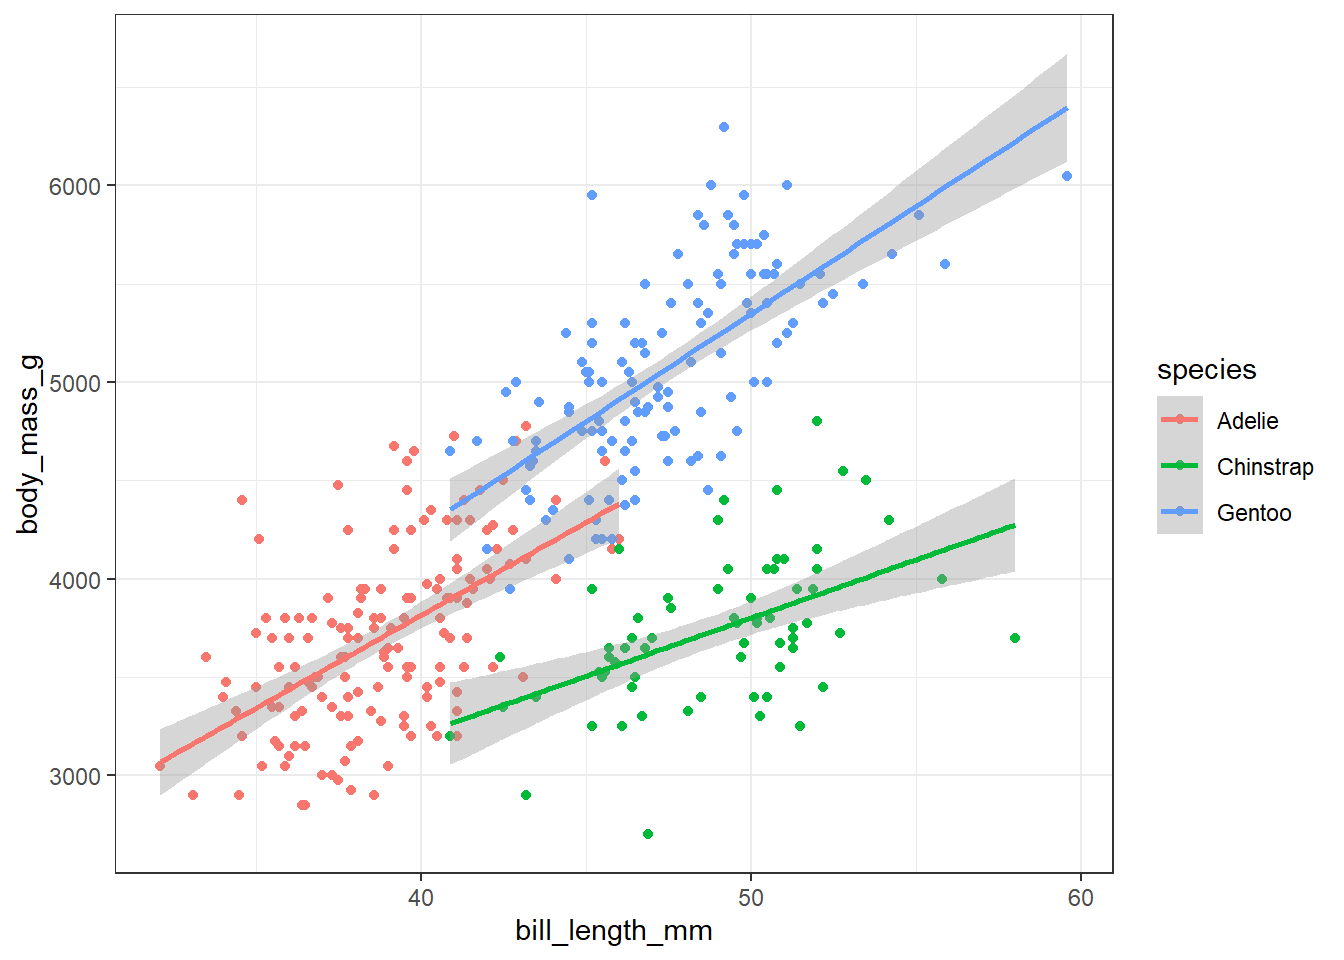
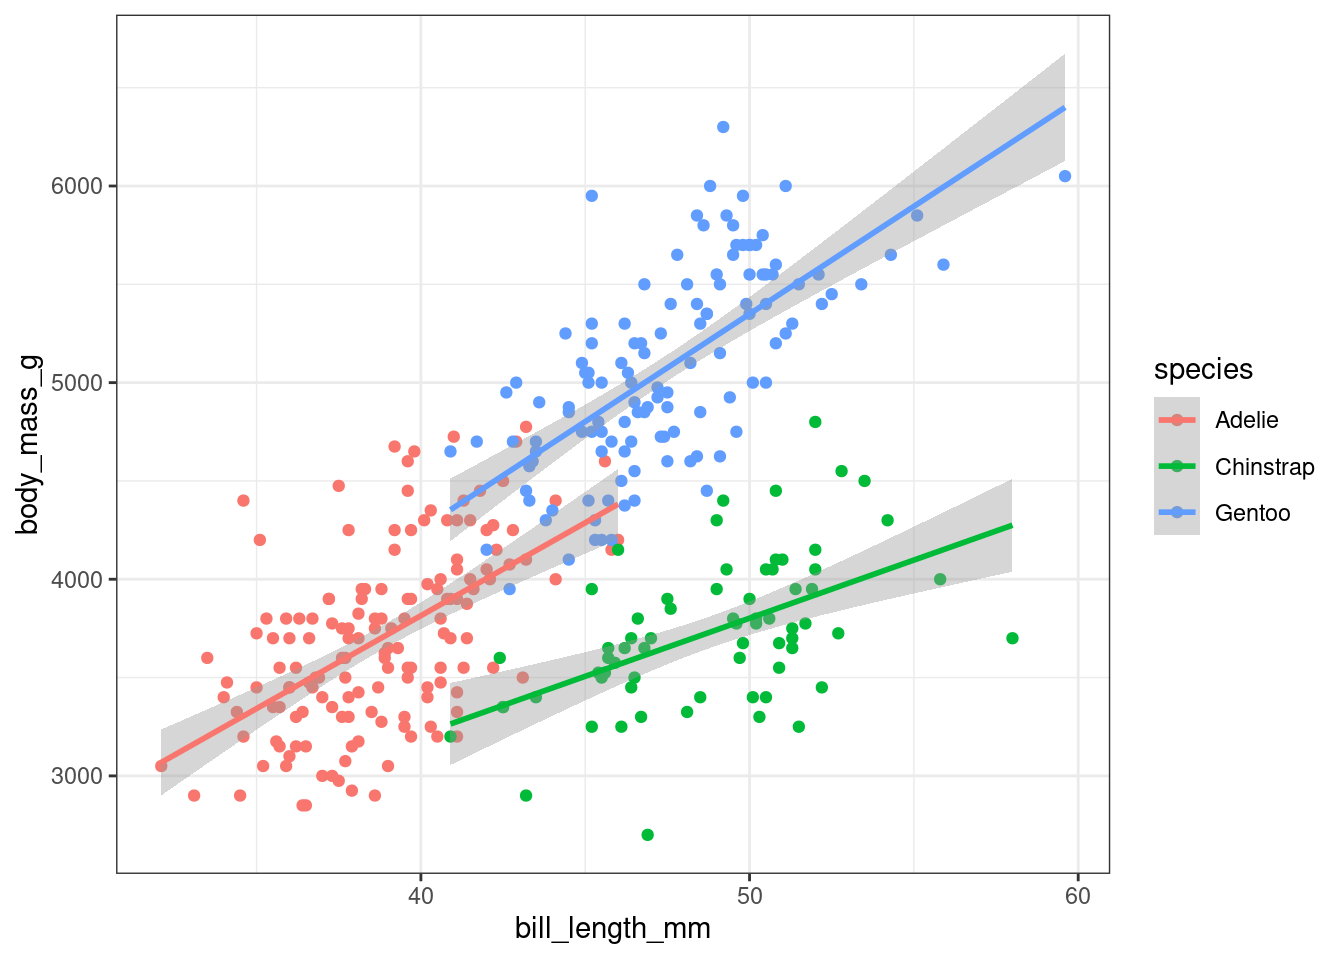
Built site for gh-pages

diff --git a/index.html b/index.html
@@ -6,8 +6,9 @@
 
 <meta name="viewport" content="width=device-width, initial-scale=1.0, user-scalable=yes">
 
+<meta name="author" content="Philip Orlando">
 
-<title>Model</title>
+<title>Penguins EDA</title>
 <style>
 code{white-space: pre-wrap;}
 span.smallcaps{font-variant: small-caps;}
@@ -86,19 +87,16 @@ code span.wa { color: #60a0b0; font-weight: bold; font-style: italic; } /* Warni
 </style>
 
 
-<script src="model_files/libs/clipboard/clipboard.min.js"></script>
-<script src="model_files/libs/quarto-html/quarto.js"></script>
-<script src="model_files/libs/quarto-html/popper.min.js"></script>
-<script src="model_files/libs/quarto-html/tippy.umd.min.js"></script>
-<script src="model_files/libs/quarto-html/anchor.min.js"></script>
-<link href="model_files/libs/quarto-html/tippy.css" rel="stylesheet">
-<link href="model_files/libs/quarto-html/quarto-syntax-highlighting.css" rel="stylesheet" id="quarto-text-highlighting-styles">
-<script src="model_files/libs/bootstrap/bootstrap.min.js"></script>
-<link href="model_files/libs/bootstrap/bootstrap-icons.css" rel="stylesheet">
-<link href="model_files/libs/bootstrap/bootstrap.min.css" rel="stylesheet" id="quarto-bootstrap" data-mode="light">
-<script src="https://cdnjs.cloudflare.com/ajax/libs/require.js/2.3.6/require.min.js" integrity="sha512-c3Nl8+7g4LMSTdrm621y7kf9v3SDPnhxLNhcjFJbKECVnmZHTdo+IRO05sNLTH/D3vA6u1X32ehoLC7WFVdheg==" crossorigin="anonymous"></script>
-<script src="https://cdnjs.cloudflare.com/ajax/libs/jquery/3.5.1/jquery.min.js" integrity="sha512-bLT0Qm9VnAYZDflyKcBaQ2gg0hSYNQrJ8RilYldYQ1FxQYoCLtUjuuRuZo+fjqhx/qtq/1itJ0C2ejDxltZVFg==" crossorigin="anonymous"></script>
-<script type="application/javascript">define('jquery', [],function() {return window.jQuery;})</script>
+<script src="eda_files/libs/clipboard/clipboard.min.js"></script>
+<script src="eda_files/libs/quarto-html/quarto.js"></script>
+<script src="eda_files/libs/quarto-html/popper.min.js"></script>
+<script src="eda_files/libs/quarto-html/tippy.umd.min.js"></script>
+<script src="eda_files/libs/quarto-html/anchor.min.js"></script>
+<link href="eda_files/libs/quarto-html/tippy.css" rel="stylesheet">
+<link href="eda_files/libs/quarto-html/quarto-syntax-highlighting.css" rel="stylesheet" id="quarto-text-highlighting-styles">
+<script src="eda_files/libs/bootstrap/bootstrap.min.js"></script>
+<link href="eda_files/libs/bootstrap/bootstrap-icons.css" rel="stylesheet">
+<link href="eda_files/libs/bootstrap/bootstrap.min.css" rel="stylesheet" id="quarto-bootstrap" data-mode="light">
 
 
 </head>
@@ -111,13 +109,19 @@ code span.wa { color: #60a0b0; font-weight: bold; font-style: italic; } /* Warni
 
 <header id="title-block-header" class="quarto-title-block default">
 <div class="quarto-title">
-<h1 class="title">Model</h1>
+<h1 class="title">Penguins EDA</h1>
 </div>
 
 
 
 <div class="quarto-title-meta">
 
+    <div>
+    <div class="quarto-title-meta-heading">Author</div>
+    <div class="quarto-title-meta-contents">
+             <p>Philip Orlando </p>
+          </div>
+  </div>
     
   
     
@@ -126,110 +130,173 @@ code span.wa { color: #60a0b0; font-weight: bold; font-style: italic; } /* Warni
 
 </header>
 
-<div class="cell" data-execution_count="1">
+<section id="penguin-size-and-mass-by-sex-and-species" class="level2">
+<h2 class="anchored" data-anchor-id="penguin-size-and-mass-by-sex-and-species">Penguin Size and Mass by Sex and Species</h2>
+<div class="cell">
 <details>
 <summary>Code</summary>
-<div class="sourceCode cell-code" id="cb1"><pre class="sourceCode python code-with-copy"><code class="sourceCode python"><span id="cb1-1"><a href="#cb1-1" aria-hidden="true" tabindex="-1"></a><span class="im">from</span> palmerpenguins <span class="im">import</span> penguins</span>
-<span id="cb1-2"><a href="#cb1-2" aria-hidden="true" tabindex="-1"></a><span class="im">from</span> pandas <span class="im">import</span> get_dummies</span>
-<span id="cb1-3"><a href="#cb1-3" aria-hidden="true" tabindex="-1"></a><span class="im">import</span> numpy <span class="im">as</span> np</span>
-<span id="cb1-4"><a href="#cb1-4" aria-hidden="true" tabindex="-1"></a><span class="im">from</span> sklearn.linear_model <span class="im">import</span> LinearRegression</span>
-<span id="cb1-5"><a href="#cb1-5" aria-hidden="true" tabindex="-1"></a><span class="im">from</span> sklearn <span class="im">import</span> preprocessing</span></code><button title="Copy to Clipboard" class="code-copy-button"><i class="bi"></i></button></pre></div>
+<div class="sourceCode cell-code" id="cb1"><pre class="sourceCode r code-with-copy"><code class="sourceCode r"><span id="cb1-1"><a href="#cb1-1" aria-hidden="true" tabindex="-1"></a><span class="fu">library</span>(palmerpenguins)</span>
+<span id="cb1-2"><a href="#cb1-2" aria-hidden="true" tabindex="-1"></a><span class="fu">library</span>(dplyr)</span></code><button title="Copy to Clipboard" class="code-copy-button"><i class="bi"></i></button></pre></div>
+</details>
+<div class="cell-output cell-output-stderr">
+<pre><code>
+Attaching package: 'dplyr'</code></pre>
+</div>
+<div class="cell-output cell-output-stderr">
+<pre><code>The following objects are masked from 'package:stats':
+
+    filter, lag</code></pre>
+</div>
+<div class="cell-output cell-output-stderr">
+<pre><code>The following objects are masked from 'package:base':
+
+    intersect, setdiff, setequal, union</code></pre>
+</div>
+<details>
+<summary>Code</summary>
+<div class="sourceCode cell-code" id="cb5"><pre class="sourceCode r code-with-copy"><code class="sourceCode r"><span id="cb5-1"><a href="#cb5-1" aria-hidden="true" tabindex="-1"></a><span class="fu">library</span>(ggplot2)</span>
+<span id="cb5-2"><a href="#cb5-2" aria-hidden="true" tabindex="-1"></a></span>
+<span id="cb5-3"><a href="#cb5-3" aria-hidden="true" tabindex="-1"></a>df <span class="ot">&lt;-</span> palmerpenguins<span class="sc">::</span>penguins</span></code><button title="Copy to Clipboard" class="code-copy-button"><i class="bi"></i></button></pre></div>
 </details>
 </div>
-<section id="get-data" class="level2">
-<h2 class="anchored" data-anchor-id="get-data">Get Data</h2>
-<div class="cell" data-execution_count="2">
+<div class="cell">
 <details>
 <summary>Code</summary>
-<div class="sourceCode cell-code" id="cb2"><pre class="sourceCode python code-with-copy"><code class="sourceCode python"><span id="cb2-1"><a href="#cb2-1" aria-hidden="true" tabindex="-1"></a>df <span class="op">=</span> penguins.load_penguins().dropna()</span>
-<span id="cb2-2"><a href="#cb2-2" aria-hidden="true" tabindex="-1"></a></span>
-<span id="cb2-3"><a href="#cb2-3" aria-hidden="true" tabindex="-1"></a>df.head(<span class="dv">3</span>)</span></code><button title="Copy to Clipboard" class="code-copy-button"><i class="bi"></i></button></pre></div>
+<div class="sourceCode cell-code" id="cb6"><pre class="sourceCode r code-with-copy"><code class="sourceCode r"><span id="cb6-1"><a href="#cb6-1" aria-hidden="true" tabindex="-1"></a>df <span class="sc">%&gt;%</span> </span>
+<span id="cb6-2"><a href="#cb6-2" aria-hidden="true" tabindex="-1"></a>  <span class="fu">group_by</span>(species, sex) <span class="sc">%&gt;%</span></span>
+<span id="cb6-3"><a href="#cb6-3" aria-hidden="true" tabindex="-1"></a>  <span class="fu">summarise</span>(</span>
+<span id="cb6-4"><a href="#cb6-4" aria-hidden="true" tabindex="-1"></a>    <span class="fu">across</span>(</span>
+<span id="cb6-5"><a href="#cb6-5" aria-hidden="true" tabindex="-1"></a>      <span class="fu">where</span>(is.numeric),</span>
+<span id="cb6-6"><a href="#cb6-6" aria-hidden="true" tabindex="-1"></a>      \(x) <span class="fu">mean</span>(x, <span class="at">na.rm =</span> <span class="cn">TRUE</span>)</span>
+<span id="cb6-7"><a href="#cb6-7" aria-hidden="true" tabindex="-1"></a>    )</span>
+<span id="cb6-8"><a href="#cb6-8" aria-hidden="true" tabindex="-1"></a>  ) <span class="sc">%&gt;%</span></span>
+<span id="cb6-9"><a href="#cb6-9" aria-hidden="true" tabindex="-1"></a>  knitr<span class="sc">::</span><span class="fu">kable</span>()</span></code><button title="Copy to Clipboard" class="code-copy-button"><i class="bi"></i></button></pre></div>
 </details>
-<div class="cell-output cell-output-display" data-execution_count="6">
-
-<div>
-
-<table class="dataframe table table-sm table-striped">
-  <thead>
-    <tr>
-      <th></th>
-      <th>species</th>
-      <th>island</th>
-      <th>bill_length_mm</th>
-      <th>bill_depth_mm</th>
-      <th>flipper_length_mm</th>
-      <th>body_mass_g</th>
-      <th>sex</th>
-      <th>year</th>
-    </tr>
-  </thead>
-  <tbody>
-    <tr>
-      <th>0</th>
-      <td>Adelie</td>
-      <td>Torgersen</td>
-      <td>39.1</td>
-      <td>18.7</td>
-      <td>181.0</td>
-      <td>3750.0</td>
-      <td>male</td>
-      <td>2007</td>
-    </tr>
-    <tr>
-      <th>1</th>
-      <td>Adelie</td>
-      <td>Torgersen</td>
-      <td>39.5</td>
-      <td>17.4</td>
-      <td>186.0</td>
-      <td>3800.0</td>
-      <td>female</td>
-      <td>2007</td>
-    </tr>
-    <tr>
-      <th>2</th>
-      <td>Adelie</td>
-      <td>Torgersen</td>
-      <td>40.3</td>
-      <td>18.0</td>
-      <td>195.0</td>
-      <td>3250.0</td>
-      <td>female</td>
-      <td>2007</td>
-    </tr>
-  </tbody>
+<div class="cell-output cell-output-stderr">
+<pre><code>`summarise()` has grouped output by 'species'. You can override using the
+`.groups` argument.</code></pre>
+</div>
+<div class="cell-output-display">
+<table class="table table-sm table-striped">
+<colgroup>
+<col style="width: 11%">
+<col style="width: 8%">
+<col style="width: 17%">
+<col style="width: 16%">
+<col style="width: 21%">
+<col style="width: 14%">
+<col style="width: 10%">
+</colgroup>
+<thead>
+<tr class="header">
+<th style="text-align: left;">species</th>
+<th style="text-align: left;">sex</th>
+<th style="text-align: right;">bill_length_mm</th>
+<th style="text-align: right;">bill_depth_mm</th>
+<th style="text-align: right;">flipper_length_mm</th>
+<th style="text-align: right;">body_mass_g</th>
+<th style="text-align: right;">year</th>
+</tr>
+</thead>
+<tbody>
+<tr class="odd">
+<td style="text-align: left;">Adelie</td>
+<td style="text-align: left;">female</td>
+<td style="text-align: right;">37.25753</td>
+<td style="text-align: right;">17.62192</td>
+<td style="text-align: right;">187.7945</td>
+<td style="text-align: right;">3368.836</td>
+<td style="text-align: right;">2008.055</td>
+</tr>
+<tr class="even">
+<td style="text-align: left;">Adelie</td>
+<td style="text-align: left;">male</td>
+<td style="text-align: right;">40.39041</td>
+<td style="text-align: right;">19.07260</td>
+<td style="text-align: right;">192.4110</td>
+<td style="text-align: right;">4043.493</td>
+<td style="text-align: right;">2008.055</td>
+</tr>
+<tr class="odd">
+<td style="text-align: left;">Adelie</td>
+<td style="text-align: left;">NA</td>
+<td style="text-align: right;">37.84000</td>
+<td style="text-align: right;">18.32000</td>
+<td style="text-align: right;">185.6000</td>
+<td style="text-align: right;">3540.000</td>
+<td style="text-align: right;">2007.000</td>
+</tr>
+<tr class="even">
+<td style="text-align: left;">Chinstrap</td>
+<td style="text-align: left;">female</td>
+<td style="text-align: right;">46.57353</td>
+<td style="text-align: right;">17.58824</td>
+<td style="text-align: right;">191.7353</td>
+<td style="text-align: right;">3527.206</td>
+<td style="text-align: right;">2007.971</td>
+</tr>
+<tr class="odd">
+<td style="text-align: left;">Chinstrap</td>
+<td style="text-align: left;">male</td>
+<td style="text-align: right;">51.09412</td>
+<td style="text-align: right;">19.25294</td>
+<td style="text-align: right;">199.9118</td>
+<td style="text-align: right;">3938.971</td>
+<td style="text-align: right;">2007.971</td>
+</tr>
+<tr class="even">
+<td style="text-align: left;">Gentoo</td>
+<td style="text-align: left;">female</td>
+<td style="text-align: right;">45.56379</td>
+<td style="text-align: right;">14.23793</td>
+<td style="text-align: right;">212.7069</td>
+<td style="text-align: right;">4679.741</td>
+<td style="text-align: right;">2008.069</td>
+</tr>
+<tr class="odd">
+<td style="text-align: left;">Gentoo</td>
+<td style="text-align: left;">male</td>
+<td style="text-align: right;">49.47377</td>
+<td style="text-align: right;">15.71803</td>
+<td style="text-align: right;">221.5410</td>
+<td style="text-align: right;">5484.836</td>
+<td style="text-align: right;">2008.066</td>
+</tr>
+<tr class="even">
+<td style="text-align: left;">Gentoo</td>
+<td style="text-align: left;">NA</td>
+<td style="text-align: right;">45.62500</td>
+<td style="text-align: right;">14.55000</td>
+<td style="text-align: right;">215.7500</td>
+<td style="text-align: right;">4587.500</td>
+<td style="text-align: right;">2008.400</td>
+</tr>
+</tbody>
 </table>
 </div>
 </div>
-</div>
 </section>
-<section id="define-model-and-fit" class="level2">
-<h2 class="anchored" data-anchor-id="define-model-and-fit">Define Model and Fit</h2>
-<div class="cell" data-execution_count="3">
+<section id="penguin-size-vs-mass-by-species" class="level2">
+<h2 class="anchored" data-anchor-id="penguin-size-vs-mass-by-species">Penguin Size vs Mass by Species</h2>
+<div class="cell">
 <details>
 <summary>Code</summary>
-<div class="sourceCode cell-code" id="cb3"><pre class="sourceCode python code-with-copy"><code class="sourceCode python"><span id="cb3-1"><a href="#cb3-1" aria-hidden="true" tabindex="-1"></a>X <span class="op">=</span> get_dummies(df[[<span class="st">'bill_length_mm'</span>, <span class="st">'species'</span>, <span class="st">'sex'</span>]], drop_first <span class="op">=</span> <span class="va">True</span>)</span>
-<span id="cb3-2"><a href="#cb3-2" aria-hidden="true" tabindex="-1"></a>y <span class="op">=</span> df[<span class="st">'body_mass_g'</span>]</span>
-<span id="cb3-3"><a href="#cb3-3" aria-hidden="true" tabindex="-1"></a></span>
-<span id="cb3-4"><a href="#cb3-4" aria-hidden="true" tabindex="-1"></a>model <span class="op">=</span> LinearRegression().fit(X, y)</span></code><button title="Copy to Clipboard" class="code-copy-button"><i class="bi"></i></button></pre></div>
+<div class="sourceCode cell-code" id="cb8"><pre class="sourceCode r code-with-copy"><code class="sourceCode r"><span id="cb8-1"><a href="#cb8-1" aria-hidden="true" tabindex="-1"></a>df <span class="sc">%&gt;%</span> <span class="fu">ggplot</span>(<span class="fu">aes</span>(<span class="at">x =</span> bill_length_mm, <span class="at">y =</span> body_mass_g, <span class="at">color =</span> species)) <span class="sc">+</span></span>
+<span id="cb8-2"><a href="#cb8-2" aria-hidden="true" tabindex="-1"></a>  <span class="fu">geom_point</span>() <span class="sc">+</span></span>
+<span id="cb8-3"><a href="#cb8-3" aria-hidden="true" tabindex="-1"></a>  <span class="fu">geom_smooth</span>(<span class="at">method =</span> <span class="st">"lm"</span>) <span class="sc">+</span></span>
+<span id="cb8-4"><a href="#cb8-4" aria-hidden="true" tabindex="-1"></a>  <span class="fu">theme_bw</span>()</span></code><button title="Copy to Clipboard" class="code-copy-button"><i class="bi"></i></button></pre></div>
 </details>
+<div class="cell-output cell-output-stderr">
+<pre><code>`geom_smooth()` using formula = 'y ~ x'</code></pre>
 </div>
-</section>
-<section id="get-some-information" class="level2">
-<h2 class="anchored" data-anchor-id="get-some-information">Get some information</h2>
-<div class="cell" data-execution_count="4">
-<details>
-<summary>Code</summary>
-<div class="sourceCode cell-code" id="cb4"><pre class="sourceCode python code-with-copy"><code class="sourceCode python"><span id="cb4-1"><a href="#cb4-1" aria-hidden="true" tabindex="-1"></a><span class="bu">print</span>(<span class="ss">f"R^2 </span><span class="sc">{</span>model<span class="sc">.</span>score(X,y)<span class="sc">}</span><span class="ss">"</span>)</span>
-<span id="cb4-2"><a href="#cb4-2" aria-hidden="true" tabindex="-1"></a><span class="bu">print</span>(<span class="ss">f"Intercept </span><span class="sc">{</span>model<span class="sc">.</span>intercept_<span class="sc">}</span><span class="ss">"</span>)</span>
-<span id="cb4-3"><a href="#cb4-3" aria-hidden="true" tabindex="-1"></a><span class="bu">print</span>(<span class="ss">f"Columns </span><span class="sc">{</span>X<span class="sc">.</span>columns<span class="sc">}</span><span class="ss">"</span>)</span>
-<span id="cb4-4"><a href="#cb4-4" aria-hidden="true" tabindex="-1"></a><span class="bu">print</span>(<span class="ss">f"Coefficients </span><span class="sc">{</span>model<span class="sc">.</span>coef_<span class="sc">}</span><span class="ss">"</span>)</span></code><button title="Copy to Clipboard" class="code-copy-button"><i class="bi"></i></button></pre></div>
-</details>
-<div class="cell-output cell-output-stdout">
-<pre><code>R^2 0.8555368759537614
-Intercept 2169.2697209393996
-Columns Index(['bill_length_mm', 'species_Chinstrap', 'species_Gentoo', 'sex_male'], dtype='object')
-Coefficients [  32.53688677 -298.76553447 1094.86739145  547.36692408]</code></pre>
+<div class="cell-output cell-output-stderr">
+<pre><code>Warning: Removed 2 rows containing non-finite values (`stat_smooth()`).</code></pre>
+</div>
+<div class="cell-output cell-output-stderr">
+<pre><code>Warning: Removed 2 rows containing missing values (`geom_point()`).</code></pre>
+</div>
+<div class="cell-output-display">
+<p><img src="eda_files/figure-html/unnamed-chunk-3-1.png" class="img-fluid" width="672"></p>
 </div>
 </div>
 </section>
